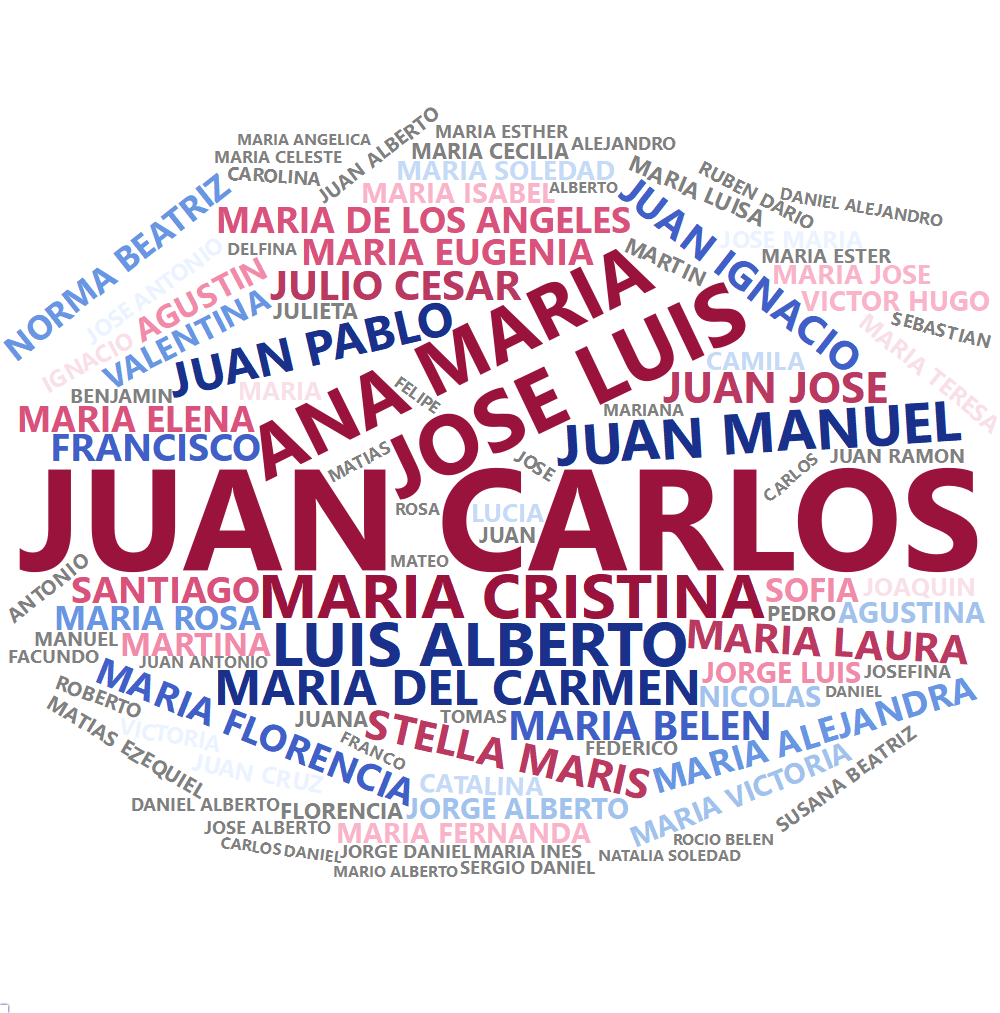
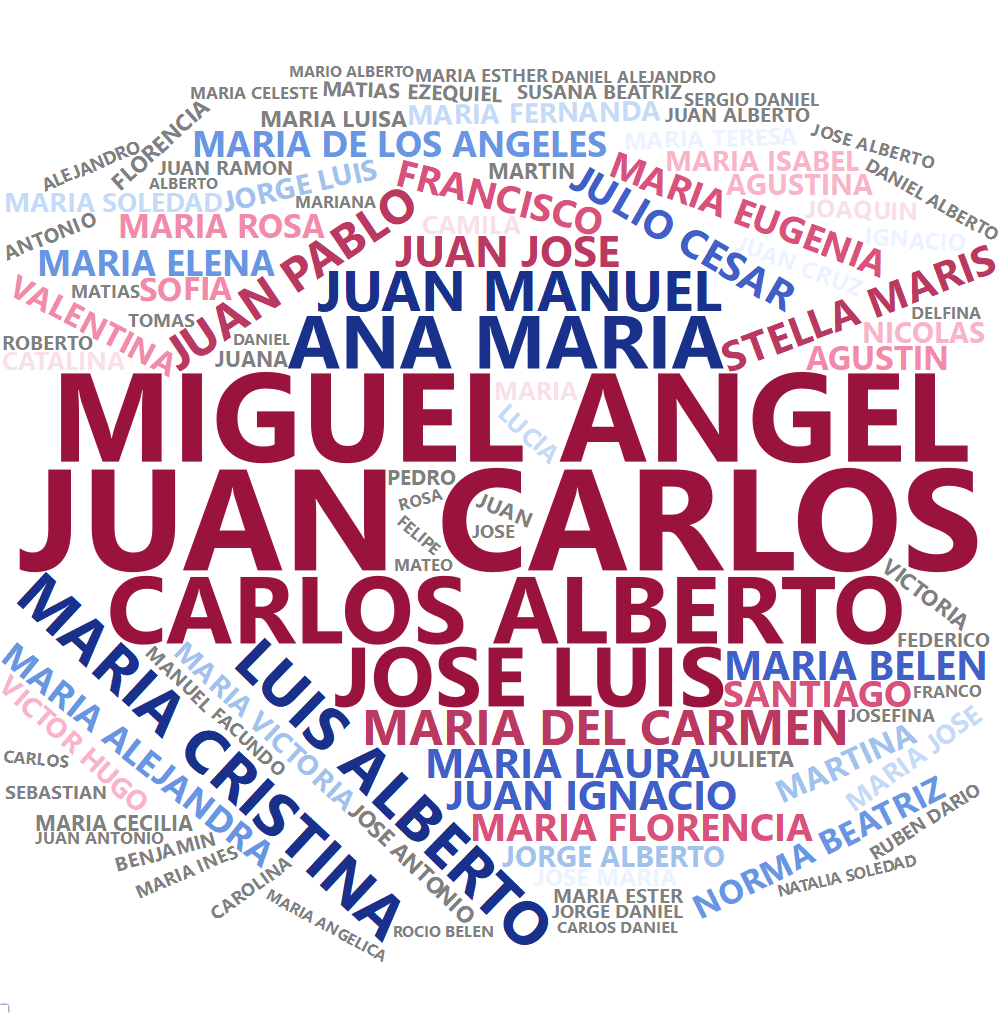
agrego un dataset

diff --git a/_book/otros-datasets.html b/_book/otros-datasets.html
@@ -163,6 +163,7 @@ ul.task-list li input[type="checkbox"] {
   <ul class="collapse">
   <li><a href="#bateria" id="toc-bateria" class="nav-link" data-scroll-target="#bateria"><code id="sec-bateria">bateria</code></a></li>
   <li><a href="#nombrarg" id="toc-nombrarg" class="nav-link" data-scroll-target="#nombrarg"><code id="sec-nombres-arg">nombrarg</code></a></li>
+  <li><a href="#jugadores" id="toc-jugadores" class="nav-link" data-scroll-target="#jugadores"><code id="sec-jugadores">jugadores</code></a></li>
   </ul></li>
   </ul>
 </nav>
@@ -204,10 +205,26 @@ ul.task-list li input[type="checkbox"] {
 <td><a href="#sec-nombres-arg"><code>nombrarg</code></a></td>
 <td>Estadística descriptiva</td>
 </tr>
+<tr class="odd">
+<td><a href="#sec-jugadores"><code>jugadores</code></a></td>
+<td>Estadística descriptiva</td>
+</tr>
 </tbody>
 </table>
 <section id="descripción-variables-y-fuente" class="level2">
 <h2 class="anchored" data-anchor-id="descripción-variables-y-fuente">Descripción, variables y fuente</h2>
+<div class="cell">
+<div class="cell-output cell-output-stdout">
+<pre><code>── R CMD build ─────────────────────────────────────────────────────────────────
+* checking for file 'C:\Users\dpara\AppData\Local\Temp\Rtmpm66TU0\remotes4af8b261a06\daniellaparada-datosIC-3201e53/DESCRIPTION' ... OK
+* preparing 'datosIC':
+* checking DESCRIPTION meta-information ... OK
+* checking for LF line-endings in source and make files and shell scripts
+* checking for empty or unneeded directories
+* building 'datosIC_0.0.0.9000.tar.gz'
+</code></pre>
+</div>
+</div>
 <hr>
 <section id="bateria" class="level3">
 <h3 class="anchored" data-anchor-id="bateria"><code id="sec-bateria">bateria</code></h3>
@@ -290,8 +307,8 @@ ul.task-list li input[type="checkbox"] {
 </div>
 <div class="cell">
 <div class="cell-output-display">
-<div class="plotly html-widget html-fill-item-overflow-hidden html-fill-item" id="htmlwidget-e9f21039caf1ea0f2617" style="width:100%;height:464px;"></div>
-<script type="application/json" data-for="htmlwidget-e9f21039caf1ea0f2617">{"x":{"data":[{"x":[18729,18736,18743,18749,18757,18763,18770,18778,18784,18791,18799,18805,18812,18820,18826,18834,18841,18847,18855,18861,18869,18876,18882,18889,18896,18903,18910,18917,18924,18932,18938,18945,18952,18959,18966,18973,18981,18987,18995,19001,19009,19015,19023,19029,19036,19043,19052,19057,19064,19071,19079,19085,19093,19099,19106,19113,19121,19127,19135,19141,19148,19155,19162,19169,19176,19184,19190,19197,19204,19211,19219,19225,19232,19240,19247,19253,19260,19267,19274,19281,19289,19295,19302,19309,19316,19323,19331,19337,19344,19351,19359,19365,19372,19379,19386,19393,19401,19407,19414,19421,19428,19435,19442,19449,19456,19463,19470,19477,19484,19491,19498,19505,19512,19519,19526,19533,19540,19547,19554,19561],"y":[84380,84161,83950,84340,84340,83002,82206,83694,80030,80622,81150,80446,80612,80270,79212,77330,77330,75096,73741,73370,74958,74804,76000,75912,75720,75439,74420,74393,75180,76192,75691,75197,75804,75417,74679,73853,73694,73212,73320,73944,73417,73150,73363,73378,72423,71581,72184,72888,72863,72659,72630,72587,72372,72218,72985,72473,71744,71182,71269,70622,69960,71742,73091,72432,70677,71390,71038,72034,72416,72477,71921,71996,71096,72481,71953,70387,71646,72103,71625,72241,71954,71938,71881,71960,71672,71284,72759,72309,71586,71610,71600,71607,70789,70975,71140,71140,70948,70259,71470,71639,71660,71624,71813,72200,71665,71521,71260,71265,71290,71294,71320,71320,71278,71259,70724,70775,70798,70969,70129,69440],"text":["carga: 84380","carga: 84161","carga: 83950","carga: 84340","carga: 84340","carga: 83002","carga: 82206","carga: 83694","carga: 80030","carga: 80622","carga: 81150","carga: 80446","carga: 80612","carga: 80270","carga: 79212","carga: 77330","carga: 77330","carga: 75096","carga: 73741","carga: 73370","carga: 74958","carga: 74804","carga: 76000","carga: 75912","carga: 75720","carga: 75439","carga: 74420","carga: 74393","carga: 75180","carga: 76192","carga: 75691","carga: 75197","carga: 75804","carga: 75417","carga: 74679","carga: 73853","carga: 73694","carga: 73212","carga: 73320","carga: 73944","carga: 73417","carga: 73150","carga: 73363","carga: 73378","carga: 72423","carga: 71581","carga: 72184","carga: 72888","carga: 72863","carga: 72659","carga: 72630","carga: 72587","carga: 72372","carga: 72218","carga: 72985","carga: 72473","carga: 71744","carga: 71182","carga: 71269","carga: 70622","carga: 69960","carga: 71742","carga: 73091","carga: 72432","carga: 70677","carga: 71390","carga: 71038","carga: 72034","carga: 72416","carga: 72477","carga: 71921","carga: 71996","carga: 71096","carga: 72481","carga: 71953","carga: 70387","carga: 71646","carga: 72103","carga: 71625","carga: 72241","carga: 71954","carga: 71938","carga: 71881","carga: 71960","carga: 71672","carga: 71284","carga: 72759","carga: 72309","carga: 71586","carga: 71610","carga: 71600","carga: 71607","carga: 70789","carga: 70975","carga: 71140","carga: 71140","carga: 70948","carga: 70259","carga: 71470","carga: 71639","carga: 71660","carga: 71624","carga: 71813","carga: 72200","carga: 71665","carga: 71521","carga: 71260","carga: 71265","carga: 71290","carga: 71294","carga: 71320","carga: 71320","carga: 71278","carga: 71259","carga: 70724","carga: 70775","carga: 70798","carga: 70969","carga: 70129","carga: 69440"],"key":["84380","84161","83950","84340","84340","83002","82206","83694","80030","80622","81150","80446","80612","80270","79212","77330","77330","75096","73741","73370","74958","74804","76000","75912","75720","75439","74420","74393","75180","76192","75691","75197","75804","75417","74679","73853","73694","73212","73320","73944","73417","73150","73363","73378","72423","71581","72184","72888","72863","72659","72630","72587","72372","72218","72985","72473","71744","71182","71269","70622","69960","71742","73091","72432","70677","71390","71038","72034","72416","72477","71921","71996","71096","72481","71953","70387","71646","72103","71625","72241","71954","71938","71881","71960","71672","71284","72759","72309","71586","71610","71600","71607","70789","70975","71140","71140","70948","70259","71470","71639","71660","71624","71813","72200","71665","71521","71260","71265","71290","71294","71320","71320","71278","71259","70724","70775","70798","70969","70129","69440"],"type":"scatter","mode":"markers","marker":{"autocolorscale":false,"color":"rgba(139,10,80,1)","opacity":1,"size":5.66929133858268,"symbol":"circle","line":{"width":1.88976377952756,"color":"rgba(139,10,80,1)"}},"hoveron":"points","showlegend":false,"xaxis":"x","yaxis":"y","hoverinfo":"text","_isNestedKey":false,"frame":null}],"layout":{"margin":{"t":26.2283105022831,"r":7.30593607305936,"b":40.1826484018265,"l":54.7945205479452},"plot_bgcolor":"rgba(255,255,255,1)","paper_bgcolor":"rgba(255,255,255,1)","font":{"color":"rgba(0,0,0,1)","family":"","size":14.6118721461187},"xaxis":{"domain":[0,1],"automargin":true,"type":"linear","autorange":false,"range":[18687.4,19602.6],"tickmode":"array","ticktext":["2021-07","2022-01","2022-07","2023-01","2023-07"],"tickvals":[18809,18993,19174,19358,19539],"categoryorder":"array","categoryarray":["2021-07","2022-01","2022-07","2023-01","2023-07"],"nticks":null,"ticks":"outside","tickcolor":"rgba(51,51,51,1)","ticklen":3.65296803652968,"tickwidth":0.66417600664176,"showticklabels":true,"tickfont":{"color":"rgba(77,77,77,1)","family":"","size":11.689497716895},"tickangle":-0,"showline":true,"linecolor":"rgba(0,0,0,1)","linewidth":0.66417600664176,"showgrid":false,"gridcolor":null,"gridwidth":0,"zeroline":false,"anchor":"y","title":{"text":"Fecha","font":{"color":"rgba(0,0,0,1)","family":"","size":14.6118721461187}},"hoverformat":".2f"},"yaxis":{"domain":[0,1],"automargin":true,"type":"linear","autorange":false,"range":[58750,86250],"tickmode":"array","ticktext":["60000","65000","70000","75000","80000","85000"],"tickvals":[60000,65000,70000,75000,80000,85000],"categoryorder":"array","categoryarray":["60000","65000","70000","75000","80000","85000"],"nticks":null,"ticks":"outside","tickcolor":"rgba(51,51,51,1)","ticklen":3.65296803652968,"tickwidth":0.66417600664176,"showticklabels":true,"tickfont":{"color":"rgba(77,77,77,1)","family":"","size":11.689497716895},"tickangle":-0,"showline":true,"linecolor":"rgba(0,0,0,1)","linewidth":0.66417600664176,"showgrid":false,"gridcolor":null,"gridwidth":0,"zeroline":false,"anchor":"x","title":{"text":"Carga máxima","font":{"color":"rgba(0,0,0,1)","family":"","size":14.6118721461187}},"hoverformat":".2f"},"shapes":[{"type":"rect","fillcolor":null,"line":{"color":null,"width":0,"linetype":[]},"yref":"paper","xref":"paper","x0":0,"x1":1,"y0":0,"y1":1}],"showlegend":false,"legend":{"bgcolor":"rgba(255,255,255,1)","bordercolor":"transparent","borderwidth":1.88976377952756,"font":{"color":"rgba(0,0,0,1)","family":"","size":11.689497716895}},"hovermode":"closest","barmode":"relative"},"config":{"doubleClick":"reset","modeBarButtonsToAdd":["hoverclosest","hovercompare"],"showSendToCloud":false},"source":"select","attrs":{"65d857fb1e45":{"x":{},"y":{},"key":{},"type":"scatter"}},"cur_data":"65d857fb1e45","visdat":{"65d857fb1e45":["function (y) ","x"]},"highlight":{"on":"plotly_click","persistent":false,"dynamic":false,"selectize":false,"opacityDim":0.2,"selected":{"opacity":1},"debounce":0},"shinyEvents":["plotly_hover","plotly_click","plotly_selected","plotly_relayout","plotly_brushed","plotly_brushing","plotly_clickannotation","plotly_doubleclick","plotly_deselect","plotly_afterplot","plotly_sunburstclick"],"base_url":"https://plot.ly"},"evals":[],"jsHooks":[]}</script>
+<div class="plotly html-widget html-fill-item-overflow-hidden html-fill-item" id="htmlwidget-521453e0a7a346733fb5" style="width:100%;height:464px;"></div>
+<script type="application/json" data-for="htmlwidget-521453e0a7a346733fb5">{"x":{"data":[{"x":[18729,18736,18743,18749,18757,18763,18770,18778,18784,18791,18799,18805,18812,18820,18826,18834,18841,18847,18855,18861,18869,18876,18882,18889,18896,18903,18910,18917,18924,18932,18938,18945,18952,18959,18966,18973,18981,18987,18995,19001,19009,19015,19023,19029,19036,19043,19052,19057,19064,19071,19079,19085,19093,19099,19106,19113,19121,19127,19135,19141,19148,19155,19162,19169,19176,19184,19190,19197,19204,19211,19219,19225,19232,19240,19247,19253,19260,19267,19274,19281,19289,19295,19302,19309,19316,19323,19331,19337,19344,19351,19359,19365,19372,19379,19386,19393,19401,19407,19414,19421,19428,19435,19442,19449,19456,19463,19470,19477,19484,19491,19498,19505,19512,19519,19526,19533,19540,19547,19554,19561],"y":[84380,84161,83950,84340,84340,83002,82206,83694,80030,80622,81150,80446,80612,80270,79212,77330,77330,75096,73741,73370,74958,74804,76000,75912,75720,75439,74420,74393,75180,76192,75691,75197,75804,75417,74679,73853,73694,73212,73320,73944,73417,73150,73363,73378,72423,71581,72184,72888,72863,72659,72630,72587,72372,72218,72985,72473,71744,71182,71269,70622,69960,71742,73091,72432,70677,71390,71038,72034,72416,72477,71921,71996,71096,72481,71953,70387,71646,72103,71625,72241,71954,71938,71881,71960,71672,71284,72759,72309,71586,71610,71600,71607,70789,70975,71140,71140,70948,70259,71470,71639,71660,71624,71813,72200,71665,71521,71260,71265,71290,71294,71320,71320,71278,71259,70724,70775,70798,70969,70129,69440],"text":["carga: 84380","carga: 84161","carga: 83950","carga: 84340","carga: 84340","carga: 83002","carga: 82206","carga: 83694","carga: 80030","carga: 80622","carga: 81150","carga: 80446","carga: 80612","carga: 80270","carga: 79212","carga: 77330","carga: 77330","carga: 75096","carga: 73741","carga: 73370","carga: 74958","carga: 74804","carga: 76000","carga: 75912","carga: 75720","carga: 75439","carga: 74420","carga: 74393","carga: 75180","carga: 76192","carga: 75691","carga: 75197","carga: 75804","carga: 75417","carga: 74679","carga: 73853","carga: 73694","carga: 73212","carga: 73320","carga: 73944","carga: 73417","carga: 73150","carga: 73363","carga: 73378","carga: 72423","carga: 71581","carga: 72184","carga: 72888","carga: 72863","carga: 72659","carga: 72630","carga: 72587","carga: 72372","carga: 72218","carga: 72985","carga: 72473","carga: 71744","carga: 71182","carga: 71269","carga: 70622","carga: 69960","carga: 71742","carga: 73091","carga: 72432","carga: 70677","carga: 71390","carga: 71038","carga: 72034","carga: 72416","carga: 72477","carga: 71921","carga: 71996","carga: 71096","carga: 72481","carga: 71953","carga: 70387","carga: 71646","carga: 72103","carga: 71625","carga: 72241","carga: 71954","carga: 71938","carga: 71881","carga: 71960","carga: 71672","carga: 71284","carga: 72759","carga: 72309","carga: 71586","carga: 71610","carga: 71600","carga: 71607","carga: 70789","carga: 70975","carga: 71140","carga: 71140","carga: 70948","carga: 70259","carga: 71470","carga: 71639","carga: 71660","carga: 71624","carga: 71813","carga: 72200","carga: 71665","carga: 71521","carga: 71260","carga: 71265","carga: 71290","carga: 71294","carga: 71320","carga: 71320","carga: 71278","carga: 71259","carga: 70724","carga: 70775","carga: 70798","carga: 70969","carga: 70129","carga: 69440"],"key":["84380","84161","83950","84340","84340","83002","82206","83694","80030","80622","81150","80446","80612","80270","79212","77330","77330","75096","73741","73370","74958","74804","76000","75912","75720","75439","74420","74393","75180","76192","75691","75197","75804","75417","74679","73853","73694","73212","73320","73944","73417","73150","73363","73378","72423","71581","72184","72888","72863","72659","72630","72587","72372","72218","72985","72473","71744","71182","71269","70622","69960","71742","73091","72432","70677","71390","71038","72034","72416","72477","71921","71996","71096","72481","71953","70387","71646","72103","71625","72241","71954","71938","71881","71960","71672","71284","72759","72309","71586","71610","71600","71607","70789","70975","71140","71140","70948","70259","71470","71639","71660","71624","71813","72200","71665","71521","71260","71265","71290","71294","71320","71320","71278","71259","70724","70775","70798","70969","70129","69440"],"type":"scatter","mode":"markers","marker":{"autocolorscale":false,"color":"rgba(139,10,80,1)","opacity":1,"size":5.66929133858268,"symbol":"circle","line":{"width":1.88976377952756,"color":"rgba(139,10,80,1)"}},"hoveron":"points","showlegend":false,"xaxis":"x","yaxis":"y","hoverinfo":"text","_isNestedKey":false,"frame":null}],"layout":{"margin":{"t":26.2283105022831,"r":7.30593607305936,"b":40.1826484018265,"l":54.7945205479452},"plot_bgcolor":"rgba(255,255,255,1)","paper_bgcolor":"rgba(255,255,255,1)","font":{"color":"rgba(0,0,0,1)","family":"","size":14.6118721461187},"xaxis":{"domain":[0,1],"automargin":true,"type":"linear","autorange":false,"range":[18687.4,19602.6],"tickmode":"array","ticktext":["2021-07","2022-01","2022-07","2023-01","2023-07"],"tickvals":[18809,18993,19174,19358,19539],"categoryorder":"array","categoryarray":["2021-07","2022-01","2022-07","2023-01","2023-07"],"nticks":null,"ticks":"outside","tickcolor":"rgba(51,51,51,1)","ticklen":3.65296803652968,"tickwidth":0.66417600664176,"showticklabels":true,"tickfont":{"color":"rgba(77,77,77,1)","family":"","size":11.689497716895},"tickangle":-0,"showline":true,"linecolor":"rgba(0,0,0,1)","linewidth":0.66417600664176,"showgrid":false,"gridcolor":null,"gridwidth":0,"zeroline":false,"anchor":"y","title":{"text":"Fecha","font":{"color":"rgba(0,0,0,1)","family":"","size":14.6118721461187}},"hoverformat":".2f"},"yaxis":{"domain":[0,1],"automargin":true,"type":"linear","autorange":false,"range":[58750,86250],"tickmode":"array","ticktext":["60000","65000","70000","75000","80000","85000"],"tickvals":[60000,65000,70000,75000,80000,85000],"categoryorder":"array","categoryarray":["60000","65000","70000","75000","80000","85000"],"nticks":null,"ticks":"outside","tickcolor":"rgba(51,51,51,1)","ticklen":3.65296803652968,"tickwidth":0.66417600664176,"showticklabels":true,"tickfont":{"color":"rgba(77,77,77,1)","family":"","size":11.689497716895},"tickangle":-0,"showline":true,"linecolor":"rgba(0,0,0,1)","linewidth":0.66417600664176,"showgrid":false,"gridcolor":null,"gridwidth":0,"zeroline":false,"anchor":"x","title":{"text":"Carga máxima","font":{"color":"rgba(0,0,0,1)","family":"","size":14.6118721461187}},"hoverformat":".2f"},"shapes":[{"type":"rect","fillcolor":null,"line":{"color":null,"width":0,"linetype":[]},"yref":"paper","xref":"paper","x0":0,"x1":1,"y0":0,"y1":1}],"showlegend":false,"legend":{"bgcolor":"rgba(255,255,255,1)","bordercolor":"transparent","borderwidth":1.88976377952756,"font":{"color":"rgba(0,0,0,1)","family":"","size":11.689497716895}},"hovermode":"closest","barmode":"relative"},"config":{"doubleClick":"reset","modeBarButtonsToAdd":["hoverclosest","hovercompare"],"showSendToCloud":false},"source":"select","attrs":{"4af84c21c8":{"x":{},"y":{},"key":{},"type":"scatter"}},"cur_data":"4af84c21c8","visdat":{"4af84c21c8":["function (y) ","x"]},"highlight":{"on":"plotly_click","persistent":false,"dynamic":false,"selectize":false,"opacityDim":0.2,"selected":{"opacity":1},"debounce":0},"shinyEvents":["plotly_hover","plotly_click","plotly_selected","plotly_relayout","plotly_brushed","plotly_brushing","plotly_clickannotation","plotly_doubleclick","plotly_deselect","plotly_afterplot","plotly_sunburstclick"],"base_url":"https://plot.ly"},"evals":[],"jsHooks":[]}</script>
 </div>
 </div>
 <div class="quarto-figure quarto-figure-center">
@@ -387,6 +404,188 @@ ul.task-list li input[type="checkbox"] {
 </div>
 </div>
 <hr>
+</section>
+<section id="jugadores" class="level3">
+<h3 class="anchored" data-anchor-id="jugadores"><code id="sec-jugadores">jugadores</code></h3>
+<ul>
+<li><p><strong>Descripción</strong>: Datos de jugadores de fútbol de primera división de Argentina al 2023, que incluyen datos de nacimiento y altura. Datos procesados y puestos a disposición por Pablo Mislej para el DATATÓN llevado a cabo en 2023 en FCEyN UBA, a cargo de Mariela Sued y María Eugenia Szretter Noste.</p></li>
+<li><p><strong>Variables</strong>:</p>
+<ul>
+<li><code>Equipo</code>: equipo en el que juega a la fecha.</li>
+<li><code>Puesto</code>: posición en la que juega a la fecha.</li>
+<li><code>Jugador</code>: nombre del jugador.</li>
+<li><code>Edad</code>: edad del jugador al 2023.</li>
+<li><code>Nacimiento</code>: fecha de nacimiento del jugador, en el formato día-mes-año.</li>
+<li><code>Altura</code>: altura (cm) del jugador.</li>
+<li><code>Ciudad</code>: ciudad de nacimiento del jugador.</li>
+<li><code>Pais</code>: país de nacimiento del jugador.</li>
+<li><code>Mes</code>: mes de nacimiento del jugador.</li>
+<li><code>Anio</code>: año de nacimiento del jugador.</li>
+</ul></li>
+<li><p><strong>Fuente</strong>: Consultar con Pablo Mislej.</p></li>
+</ul>
+<p>Disponible en la librería <code>datosIC</code> bajo el nombre de <code>jugadores</code>.</p>
+<div class="cell">
+<div class="cell-output-display">
+<table class="table table-sm table-striped small">
+<caption>Primeros 10 datos de ‘jugadores’.</caption>
+<colgroup>
+<col style="width: 11%">
+<col style="width: 7%">
+<col style="width: 20%">
+<col style="width: 5%">
+<col style="width: 11%">
+<col style="width: 7%">
+<col style="width: 16%">
+<col style="width: 10%">
+<col style="width: 4%">
+<col style="width: 5%">
+</colgroup>
+<thead>
+<tr class="header">
+<th style="text-align: left;">Equipo</th>
+<th style="text-align: left;">Puesto</th>
+<th style="text-align: left;">Jugador</th>
+<th style="text-align: right;">Edad</th>
+<th style="text-align: left;">Nacimiento</th>
+<th style="text-align: right;">Altura</th>
+<th style="text-align: left;">Ciudad</th>
+<th style="text-align: left;">Pais</th>
+<th style="text-align: right;">Mes</th>
+<th style="text-align: right;">Anio</th>
+</tr>
+</thead>
+<tbody>
+<tr class="odd">
+<td style="text-align: left;">Argentinos</td>
+<td style="text-align: left;">ARQ</td>
+<td style="text-align: left;">Alexis Martin Arias</td>
+<td style="text-align: right;">30</td>
+<td style="text-align: left;">4/7/1992</td>
+<td style="text-align: right;">185</td>
+<td style="text-align: left;">Pellegrini</td>
+<td style="text-align: left;">Argentina</td>
+<td style="text-align: right;">7</td>
+<td style="text-align: right;">1992</td>
+</tr>
+<tr class="even">
+<td style="text-align: left;">Argentinos</td>
+<td style="text-align: left;">ARQ</td>
+<td style="text-align: left;">Federico Lanzillota</td>
+<td style="text-align: right;">30</td>
+<td style="text-align: left;">1/12/1992</td>
+<td style="text-align: right;">188</td>
+<td style="text-align: left;">Villa Luzuriaga</td>
+<td style="text-align: left;">Argentina</td>
+<td style="text-align: right;">12</td>
+<td style="text-align: right;">1992</td>
+</tr>
+<tr class="odd">
+<td style="text-align: left;">Argentinos</td>
+<td style="text-align: left;">ARQ</td>
+<td style="text-align: left;">Miguel Acosta</td>
+<td style="text-align: right;">21</td>
+<td style="text-align: left;">19/10/2001</td>
+<td style="text-align: right;">189</td>
+<td style="text-align: left;">NA</td>
+<td style="text-align: left;">Argentina</td>
+<td style="text-align: right;">10</td>
+<td style="text-align: right;">2001</td>
+</tr>
+<tr class="even">
+<td style="text-align: left;">Argentinos</td>
+<td style="text-align: left;">ARQ</td>
+<td style="text-align: left;">Lucas Alegre</td>
+<td style="text-align: right;">20</td>
+<td style="text-align: left;">12/12/2002</td>
+<td style="text-align: right;">NA</td>
+<td style="text-align: left;">NA</td>
+<td style="text-align: left;">Argentina</td>
+<td style="text-align: right;">12</td>
+<td style="text-align: right;">2002</td>
+</tr>
+<tr class="odd">
+<td style="text-align: left;">Argentinos</td>
+<td style="text-align: left;">ARQ</td>
+<td style="text-align: left;">Agustin Mangiaut</td>
+<td style="text-align: right;">18</td>
+<td style="text-align: left;">24/5/2004</td>
+<td style="text-align: right;">NA</td>
+<td style="text-align: left;">NA</td>
+<td style="text-align: left;">Argentina</td>
+<td style="text-align: right;">5</td>
+<td style="text-align: right;">2004</td>
+</tr>
+<tr class="even">
+<td style="text-align: left;">Argentinos</td>
+<td style="text-align: left;">DEF</td>
+<td style="text-align: left;">Miguel Torren</td>
+<td style="text-align: right;">34</td>
+<td style="text-align: left;">12/8/1988</td>
+<td style="text-align: right;">179</td>
+<td style="text-align: left;">Santa Fe</td>
+<td style="text-align: left;">Argentina</td>
+<td style="text-align: right;">8</td>
+<td style="text-align: right;">1988</td>
+</tr>
+<tr class="odd">
+<td style="text-align: left;">Argentinos</td>
+<td style="text-align: left;">DEF</td>
+<td style="text-align: left;">Mariano Bittolo</td>
+<td style="text-align: right;">33</td>
+<td style="text-align: left;">24/4/1990</td>
+<td style="text-align: right;">175</td>
+<td style="text-align: left;">Moron</td>
+<td style="text-align: left;">Argentina</td>
+<td style="text-align: right;">4</td>
+<td style="text-align: right;">1990</td>
+</tr>
+<tr class="even">
+<td style="text-align: left;">Argentinos</td>
+<td style="text-align: left;">DEF</td>
+<td style="text-align: left;">Lucas Villalba</td>
+<td style="text-align: right;">28</td>
+<td style="text-align: left;">19/8/1994</td>
+<td style="text-align: right;">177</td>
+<td style="text-align: left;">NA</td>
+<td style="text-align: left;">Argentina</td>
+<td style="text-align: right;">8</td>
+<td style="text-align: right;">1994</td>
+</tr>
+<tr class="odd">
+<td style="text-align: left;">Argentinos</td>
+<td style="text-align: left;">DEF</td>
+<td style="text-align: left;">Jonathan Sandoval</td>
+<td style="text-align: right;">35</td>
+<td style="text-align: left;">25/6/1987</td>
+<td style="text-align: right;">179</td>
+<td style="text-align: left;">NA</td>
+<td style="text-align: left;">Uruguay</td>
+<td style="text-align: right;">6</td>
+<td style="text-align: right;">1987</td>
+</tr>
+<tr class="even">
+<td style="text-align: left;">Argentinos</td>
+<td style="text-align: left;">DEF</td>
+<td style="text-align: left;">Leonel Gonzalez</td>
+<td style="text-align: right;">29</td>
+<td style="text-align: left;">15/3/1994</td>
+<td style="text-align: right;">177</td>
+<td style="text-align: left;">Concordia</td>
+<td style="text-align: left;">Argentina</td>
+<td style="text-align: right;">3</td>
+<td style="text-align: right;">1994</td>
+</tr>
+</tbody>
+</table>
+</div>
+</div>
+<div class="cell">
+<div class="cell-output-display">
+<div class="plotly html-widget html-fill-item-overflow-hidden html-fill-item" id="htmlwidget-05028f541648ce6c46dd" style="width:100%;height:464px;"></div>
+<script type="application/json" data-for="htmlwidget-05028f541648ce6c46dd">{"x":{"data":[{"orientation":"v","width":[0.9,0.9,0.9,0.9,0.9,0.9,0.9,0.899999999999999,0.899999999999999,0.899999999999999,0.899999999999999,0.899999999999999],"base":[0,0,0,0,0,0,0,0,0,0,0,0],"x":[1,2,3,4,5,6,7,8,9,10,11,12],"y":[64,59,66,47,36,39,31,27,23,29,17,19],"text":["Total: 64","Total: 59","Total: 66","Total: 47","Total: 36","Total: 39","Total: 31","Total: 27","Total: 23","Total: 29","Total: 17","Total: 19"],"key":["64","59","66","47","36","39","31","27","23","29","17","19"],"type":"bar","textposition":"none","marker":{"autocolorscale":false,"color":"rgba(139,10,80,1)","line":{"width":1.88976377952756,"color":"transparent"}},"showlegend":false,"xaxis":"x","yaxis":"y","hoverinfo":"text","_isNestedKey":false,"frame":null}],"layout":{"margin":{"t":26.2283105022831,"r":7.30593607305936,"b":40.1826484018265,"l":37.2602739726027},"plot_bgcolor":"rgba(255,255,255,1)","paper_bgcolor":"rgba(255,255,255,1)","font":{"color":"rgba(0,0,0,1)","family":"","size":14.6118721461187},"xaxis":{"domain":[0,1],"automargin":true,"type":"linear","autorange":false,"range":[0.4,12.6],"tickmode":"array","ticktext":["1","2","3","4","5","6","7","8","9","10","11","12"],"tickvals":[1,2,3,4,5,6,7,8,9,10,11,12],"categoryorder":"array","categoryarray":["1","2","3","4","5","6","7","8","9","10","11","12"],"nticks":null,"ticks":"outside","tickcolor":"rgba(51,51,51,1)","ticklen":3.65296803652968,"tickwidth":0.66417600664176,"showticklabels":true,"tickfont":{"color":"rgba(77,77,77,1)","family":"","size":11.689497716895},"tickangle":-0,"showline":true,"linecolor":"rgba(0,0,0,1)","linewidth":0.66417600664176,"showgrid":false,"gridcolor":null,"gridwidth":0,"zeroline":false,"anchor":"y","title":{"text":"Mes de nacimiento","font":{"color":"rgba(0,0,0,1)","family":"","size":14.6118721461187}},"hoverformat":".2f"},"yaxis":{"domain":[0,1],"automargin":true,"type":"linear","autorange":false,"range":[-3.3,69.3],"tickmode":"array","ticktext":["0","20","40","60"],"tickvals":[0,20,40,60],"categoryorder":"array","categoryarray":["0","20","40","60"],"nticks":null,"ticks":"outside","tickcolor":"rgba(51,51,51,1)","ticklen":3.65296803652968,"tickwidth":0.66417600664176,"showticklabels":true,"tickfont":{"color":"rgba(77,77,77,1)","family":"","size":11.689497716895},"tickangle":-0,"showline":true,"linecolor":"rgba(0,0,0,1)","linewidth":0.66417600664176,"showgrid":false,"gridcolor":null,"gridwidth":0,"zeroline":false,"anchor":"x","title":{"text":"Cantidad","font":{"color":"rgba(0,0,0,1)","family":"","size":14.6118721461187}},"hoverformat":".2f"},"shapes":[{"type":"rect","fillcolor":null,"line":{"color":null,"width":0,"linetype":[]},"yref":"paper","xref":"paper","x0":0,"x1":1,"y0":0,"y1":1}],"showlegend":false,"legend":{"bgcolor":"rgba(255,255,255,1)","bordercolor":"transparent","borderwidth":1.88976377952756,"font":{"color":"rgba(0,0,0,1)","family":"","size":11.689497716895}},"hovermode":"closest","barmode":"relative"},"config":{"doubleClick":"reset","modeBarButtonsToAdd":["hoverclosest","hovercompare"],"showSendToCloud":false},"source":"select","attrs":{"4af8138e2928":{"x":{},"y":{},"key":{},"type":"bar"}},"cur_data":"4af8138e2928","visdat":{"4af8138e2928":["function (y) ","x"]},"highlight":{"on":"plotly_click","persistent":false,"dynamic":false,"selectize":false,"opacityDim":0.2,"selected":{"opacity":1},"debounce":0},"shinyEvents":["plotly_hover","plotly_click","plotly_selected","plotly_relayout","plotly_brushed","plotly_brushing","plotly_clickannotation","plotly_doubleclick","plotly_deselect","plotly_afterplot","plotly_sunburstclick"],"base_url":"https://plot.ly"},"evals":[],"jsHooks":[]}</script>
+</div>
+</div>
 
 
 </section>

diff --git a/1.html b/1.html
@@ -12,9 +12,9 @@
 </head>
 <body>
 <div id="htmlwidget_container">
-  <div class="wordcloud2 html-widget html-fill-item-overflow-hidden html-fill-item" id="htmlwidget-74e30f20378ff908109c" style="width:100%;height:338px;"></div>
+  <div class="wordcloud2 html-widget html-fill-item-overflow-hidden html-fill-item" id="htmlwidget-26329d7e60ac89be2bf7" style="width:100%;height:338px;"></div>
 </div>
-<script type="application/json" data-for="htmlwidget-74e30f20378ff908109c">{"x":{"word":["JUAN CARLOS","MIGUEL ANGEL","CARLOS ALBERTO","JOSE LUIS","ANA MARIA","MARIA CRISTINA","LUIS ALBERTO","JUAN MANUEL","MARIA DEL CARMEN","JUAN PABLO","JUAN JOSE","STELLA MARIS","JULIO CESAR","MARIA LAURA","JUAN IGNACIO","MARIA BELEN","MARIA FLORENCIA","FRANCISCO","MARIA EUGENIA","SANTIAGO","MARIA DE LOS ANGELES","MARIA ELENA","MARIA ALEJANDRA","NORMA BEATRIZ","VALENTINA","MARIA ROSA","AGUSTIN","SOFIA","MARTINA","JORGE LUIS","JORGE ALBERTO","MARIA VICTORIA","NICOLAS","AGUSTINA","MARIA ISABEL","VICTOR HUGO","MARIA FERNANDA","MARIA JOSE","MARIA SOLEDAD","LUCIA","CAMILA","CATALINA","JOAQUIN","MARIA","MARIA TERESA","IGNACIO","JUAN CRUZ","JOSE MARIA","JOSE ANTONIO","VICTORIA","FLORENCIA","JULIETA","MARIA LUISA","JUAN","JUANA","MARIA CECILIA","MARTIN","ANTONIO","MATIAS EZEQUIEL","PEDRO","JUAN RAMON","MARIA ESTER","FEDERICO","BENJAMIN","SUSANA BEATRIZ","MANUEL","ROBERTO","JUAN ALBERTO","FACUNDO","SEBASTIAN","RUBEN DARIO","CAROLINA","TOMAS","JOSEFINA","JOSE","MARIA INES","JORGE DANIEL","DANIEL ALBERTO","JOSE ALBERTO","MARIA ESTHER","SERGIO DANIEL","MATIAS","ALEJANDRO","JUAN ANTONIO","MARIANA","MATEO","ROSA","DELFINA","FRANCO","CARLOS","DANIEL ALEJANDRO","FELIPE","MARIA CELESTE","NATALIA SOLEDAD","CARLOS DANIEL","ALBERTO","ROCIO BELEN","MARIO ALBERTO","MARIA ANGELICA","DANIEL"],"freq":[290265,254847,191063,169863,151420,124775,124754,114153,99595,95751,87669,84424,83357,82449,81754,79683,77113,76137,75545,75233,72205,71882,71825,68216,66564,65708,65546,65518,63887,58940,58713,58533,58377,58168,57315,57133,57050,55295,54187,52879,52753,52343,50054,49525,48849,48741,48439,47916,47036,46458,46020,45848,45770,44756,44058,43979,43418,43293,43289,43270,40976,40866,40783,40205,40175,39747,39570,39375,39213,39037,38535,38467,38463,38212,38073,37667,37581,37193,36272,36120,35476,35402,35352,35249,35231,34828,34452,34168,34137,34061,34038,33549,33509,33241,33220,33064,33002,32533,32448,32116],"fontFamily":"Segoe UI","fontWeight":"bold","color":["#9a133d","#9a133d","#9a133d","#9a133d","#1a318b","#1a318b","#1a318b","#1a318b","#b93961","#b93961","#b93961","#b93961","#4060c8","#4060c8","#4060c8","#4060c8","#d8527c","#d8527c","#d8527c","#d8527c","#6996e3","#6996e3","#6996e3","#6996e3","#f28aaa","#f28aaa","#f28aaa","#f28aaa","#a1c2ed","#a1c2ed","#a1c2ed","#a1c2ed","#f9b4c9","#f9b4c9","#f9b4c9","#f9b4c9","#c5daf6","#c5daf6","#c5daf6","#c5daf6","#f9e0e8","#f9e0e8","#f9e0e8","#f9e0e8","#eaf3ff","#eaf3ff","#eaf3ff","#eaf3ff","gray","gray","gray","gray","gray","gray","gray","gray","gray","gray","gray","gray","gray","gray","gray","gray","gray","gray","gray","gray","gray","gray","gray","gray","gray","gray","gray","gray","gray","gray","gray","gray","gray","gray","gray","gray","gray","gray","gray","gray","gray","gray","gray","gray","gray","gray","gray","gray","gray","gray","gray","gray"],"minSize":0,"weightFactor":0.000496098392847915,"backgroundColor":"white","gridSize":0,"minRotation":-0.785398163397448,"maxRotation":0.785398163397448,"shuffle":true,"rotateRatio":0.4,"shape":"circle","ellipticity":0.65,"figBase64":null,"hover":null},"evals":[],"jsHooks":{"render":[{"code":"function(el,x){\n                        console.log(123);\n                        if(!iii){\n                          window.location.reload();\n                          iii = False;\n\n                        }\n  }","data":null}]}}</script>
-<script type="application/htmlwidget-sizing" data-for="htmlwidget-74e30f20378ff908109c">{"viewer":{"width":450,"height":350,"padding":0,"fill":true},"browser":{"width":960,"height":500,"padding":0,"fill":true}}</script>
+<script type="application/json" data-for="htmlwidget-26329d7e60ac89be2bf7">{"x":{"word":["JUAN CARLOS","MIGUEL ANGEL","CARLOS ALBERTO","JOSE LUIS","ANA MARIA","MARIA CRISTINA","LUIS ALBERTO","JUAN MANUEL","MARIA DEL CARMEN","JUAN PABLO","JUAN JOSE","STELLA MARIS","JULIO CESAR","MARIA LAURA","JUAN IGNACIO","MARIA BELEN","MARIA FLORENCIA","FRANCISCO","MARIA EUGENIA","SANTIAGO","MARIA DE LOS ANGELES","MARIA ELENA","MARIA ALEJANDRA","NORMA BEATRIZ","VALENTINA","MARIA ROSA","AGUSTIN","SOFIA","MARTINA","JORGE LUIS","JORGE ALBERTO","MARIA VICTORIA","NICOLAS","AGUSTINA","MARIA ISABEL","VICTOR HUGO","MARIA FERNANDA","MARIA JOSE","MARIA SOLEDAD","LUCIA","CAMILA","CATALINA","JOAQUIN","MARIA","MARIA TERESA","IGNACIO","JUAN CRUZ","JOSE MARIA","JOSE ANTONIO","VICTORIA","FLORENCIA","JULIETA","MARIA LUISA","JUAN","JUANA","MARIA CECILIA","MARTIN","ANTONIO","MATIAS EZEQUIEL","PEDRO","JUAN RAMON","MARIA ESTER","FEDERICO","BENJAMIN","SUSANA BEATRIZ","MANUEL","ROBERTO","JUAN ALBERTO","FACUNDO","SEBASTIAN","RUBEN DARIO","CAROLINA","TOMAS","JOSEFINA","JOSE","MARIA INES","JORGE DANIEL","DANIEL ALBERTO","JOSE ALBERTO","MARIA ESTHER","SERGIO DANIEL","MATIAS","ALEJANDRO","JUAN ANTONIO","MARIANA","MATEO","ROSA","DELFINA","FRANCO","CARLOS","DANIEL ALEJANDRO","FELIPE","MARIA CELESTE","NATALIA SOLEDAD","CARLOS DANIEL","ALBERTO","ROCIO BELEN","MARIO ALBERTO","MARIA ANGELICA","DANIEL"],"freq":[290265,254847,191063,169863,151420,124775,124754,114153,99595,95751,87669,84424,83357,82449,81754,79683,77113,76137,75545,75233,72205,71882,71825,68216,66564,65708,65546,65518,63887,58940,58713,58533,58377,58168,57315,57133,57050,55295,54187,52879,52753,52343,50054,49525,48849,48741,48439,47916,47036,46458,46020,45848,45770,44756,44058,43979,43418,43293,43289,43270,40976,40866,40783,40205,40175,39747,39570,39375,39213,39037,38535,38467,38463,38212,38073,37667,37581,37193,36272,36120,35476,35402,35352,35249,35231,34828,34452,34168,34137,34061,34038,33549,33509,33241,33220,33064,33002,32533,32448,32116],"fontFamily":"Segoe UI","fontWeight":"bold","color":["#9a133d","#9a133d","#9a133d","#9a133d","#1a318b","#1a318b","#1a318b","#1a318b","#b93961","#b93961","#b93961","#b93961","#4060c8","#4060c8","#4060c8","#4060c8","#d8527c","#d8527c","#d8527c","#d8527c","#6996e3","#6996e3","#6996e3","#6996e3","#f28aaa","#f28aaa","#f28aaa","#f28aaa","#a1c2ed","#a1c2ed","#a1c2ed","#a1c2ed","#f9b4c9","#f9b4c9","#f9b4c9","#f9b4c9","#c5daf6","#c5daf6","#c5daf6","#c5daf6","#f9e0e8","#f9e0e8","#f9e0e8","#f9e0e8","#eaf3ff","#eaf3ff","#eaf3ff","#eaf3ff","gray","gray","gray","gray","gray","gray","gray","gray","gray","gray","gray","gray","gray","gray","gray","gray","gray","gray","gray","gray","gray","gray","gray","gray","gray","gray","gray","gray","gray","gray","gray","gray","gray","gray","gray","gray","gray","gray","gray","gray","gray","gray","gray","gray","gray","gray","gray","gray","gray","gray","gray","gray"],"minSize":0,"weightFactor":0.000496098392847915,"backgroundColor":"white","gridSize":0,"minRotation":-0.785398163397448,"maxRotation":0.785398163397448,"shuffle":true,"rotateRatio":0.4,"shape":"circle","ellipticity":0.65,"figBase64":null,"hover":null},"evals":[],"jsHooks":{"render":[{"code":"function(el,x){\n                        console.log(123);\n                        if(!iii){\n                          window.location.reload();\n                          iii = False;\n\n                        }\n  }","data":null}]}}</script>
+<script type="application/htmlwidget-sizing" data-for="htmlwidget-26329d7e60ac89be2bf7">{"viewer":{"width":450,"height":350,"padding":0,"fill":true},"browser":{"width":960,"height":500,"padding":0,"fill":true}}</script>
 </body>
 </html>

diff --git a/_book/index.html b/_book/index.html
@@ -211,7 +211,7 @@ pre > code.sourceCode > span > a:first-child::before { text-decoration: underlin
     <div>
     <div class="quarto-title-meta-heading">Fecha de publicación</div>
     <div class="quarto-title-meta-contents">
-      <p class="date">28 de agosto de 2023</p>
+      <p class="date">29 de agosto de 2023</p>
     </div>
   </div>
   
